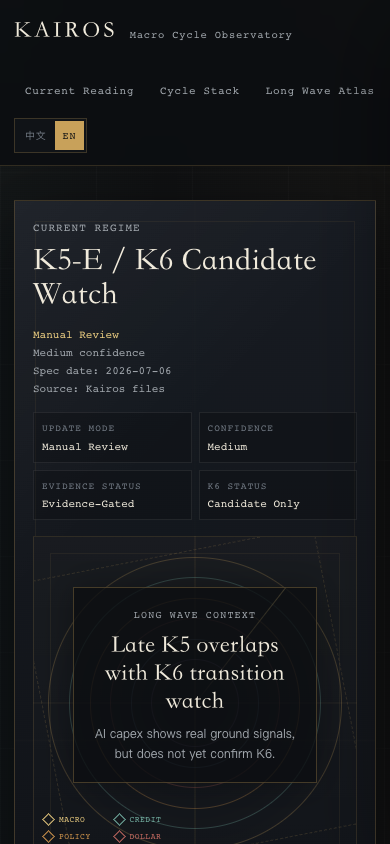
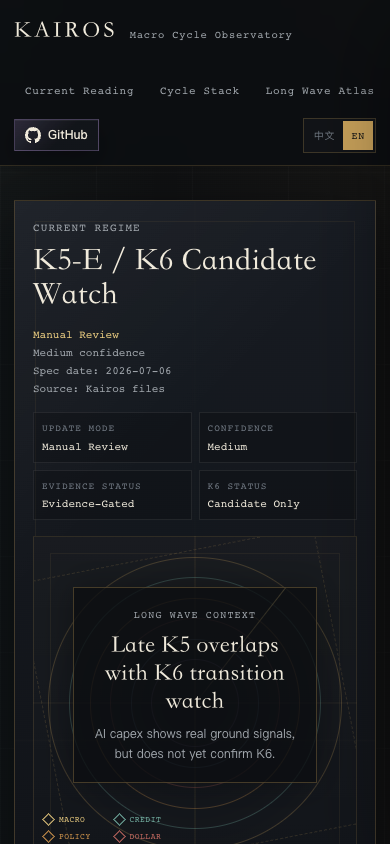
Add GitHub entry to homepage

Changed region(s): [[0.0308, 0.1232, 0.2462, 0.1848], [0.8, 0.1232, 0.9846, 0.1848]]

diff --git a/index.html b/index.html
@@ -140,6 +140,46 @@
     border-color:rgba(200,161,90,.32);
     background:rgba(200,161,90,.08);
   }
+  .utility-actions{
+    display:flex;
+    align-items:center;
+    gap:10px;
+    flex:0 0 auto;
+  }
+  .github-link{
+    display:inline-flex;
+    align-items:center;
+    justify-content:center;
+    gap:7px;
+    min-height:34px;
+    padding:7px 11px;
+    border:1px solid rgba(169,141,202,.34);
+    background:
+      linear-gradient(135deg, rgba(169,141,202,.18), rgba(18,21,26,.76) 58%),
+      rgba(18,21,26,.72);
+    color:var(--ink);
+    box-shadow:0 10px 24px rgba(0,0,0,.22), inset 0 1px 0 rgba(255,255,255,.05);
+    font-family:var(--font-body);
+    font-size:13px;
+    font-weight:650;
+    line-height:1;
+    white-space:nowrap;
+    transition:border-color .18s ease, background .18s ease, transform .18s ease, box-shadow .18s ease;
+  }
+  .github-link:hover{
+    border-color:rgba(239,208,130,.56);
+    background:
+      linear-gradient(135deg, rgba(169,141,202,.26), rgba(200,161,90,.08) 58%),
+      rgba(18,21,26,.82);
+    transform:translateY(-1px);
+    box-shadow:0 14px 30px rgba(0,0,0,.28),0 0 22px rgba(169,141,202,.08),inset 0 1px 0 rgba(255,255,255,.07);
+  }
+  .github-icon{
+    width:16px;
+    height:16px;
+    flex:0 0 auto;
+    display:block;
+  }
   .lang-toggle{
     display:flex;
     align-items:center;
@@ -162,7 +202,7 @@
     color:#101113;
     background:var(--brass);
   }
-  .nav-link:focus-visible,.btn:focus-visible,.js-open:focus-visible,.close:focus-visible{
+  .nav-link:focus-visible,.github-link:focus-visible,.btn:focus-visible,.js-open:focus-visible,.close:focus-visible{
     outline:1px solid var(--brass-2);
     outline-offset:3px;
   }
@@ -1082,6 +1122,9 @@
     .wrap{width:calc(100% - 28px);max-width:1180px}
     .topbar-inner{align-items:flex-start;flex-direction:column;padding:12px 0}
     .top-actions{width:100%;align-items:flex-start;flex-direction:column;gap:8px}
+    .utility-actions{width:100%;justify-content:space-between}
+    .github-link{min-height:32px;padding:7px 10px;font-size:12px}
+    .github-word-star{display:none}
     nav{width:100%}
     .hero{padding-top:34px}
     h1{font-size:clamp(46px,18vw,68px)}
@@ -1110,10 +1153,10 @@
     *,*::before,*::after{
       animation:none!important;
     }
-    .btn,.stack-card,.atlas-card,.watch-card,.triad-card,.evidence-card,.drawer,.drawer-backdrop{
+    .github-link,.btn,.stack-card,.atlas-card,.watch-card,.triad-card,.evidence-card,.drawer,.drawer-backdrop{
       transition:none;
     }
-    .btn:hover,.stack-card:hover,.atlas-card:hover,.watch-card:hover,.triad-card:hover,.evidence-card:hover{
+    .github-link:hover,.btn:hover,.stack-card:hover,.atlas-card:hover,.watch-card:hover,.triad-card:hover,.evidence-card:hover{
       transform:none;
     }
   }
@@ -1135,9 +1178,18 @@
           <a class="nav-link" href="#assets">资产映射</a>
           <a class="nav-link" href="#evidence">证据</a>
         </nav>
-        <div class="lang-toggle" aria-label="语言切换">
-          <button class="lang-btn active" type="button" data-lang="zh" aria-pressed="true">中文</button>
-          <button class="lang-btn" type="button" data-lang="en" aria-pressed="false">EN</button>
+        <div class="utility-actions">
+          <a class="github-link" href="https://github.com/nickzhuchen66/kairos-atlas" target="_blank" rel="noopener noreferrer" aria-label="Open Kairos on GitHub">
+            <svg class="github-icon" viewBox="0 0 16 16" aria-hidden="true" focusable="false">
+              <path fill="currentColor" d="M8 0C3.58 0 0 3.67 0 8.2c0 3.62 2.29 6.69 5.47 7.78.4.08.55-.18.55-.4 0-.19-.01-.84-.01-1.53-2.01.38-2.53-.5-2.69-.96-.09-.24-.48-.96-.82-1.15-.28-.15-.68-.52-.01-.53.63-.01 1.08.59 1.23.84.72 1.24 1.87.89 2.33.68.07-.53.28-.89.51-1.09-1.78-.21-3.64-.91-3.64-4.03 0-.89.31-1.62.82-2.19-.08-.21-.36-1.04.08-2.16 0 0 .67-.22 2.2.84A7.4 7.4 0 0 1 8 4.02c.68 0 1.36.09 2 .27 1.53-1.06 2.2-.84 2.2-.84.44 1.12.16 1.95.08 2.16.51.57.82 1.3.82 2.19 0 3.13-1.87 3.82-3.65 4.03.29.26.54.76.54 1.54 0 1.11-.01 2-.01 2.28 0 .22.15.48.55.4A8.08 8.08 0 0 0 16 8.2C16 3.67 12.42 0 8 0Z"/>
+            </svg>
+            <span class="github-word-star">Star on</span>
+            <span>GitHub</span>
+          </a>
+          <div class="lang-toggle" aria-label="语言切换">
+            <button class="lang-btn active" type="button" data-lang="zh" aria-pressed="true">中文</button>
+            <button class="lang-btn" type="button" data-lang="en" aria-pressed="false">EN</button>
+          </div>
         </div>
       </div>
     </div>